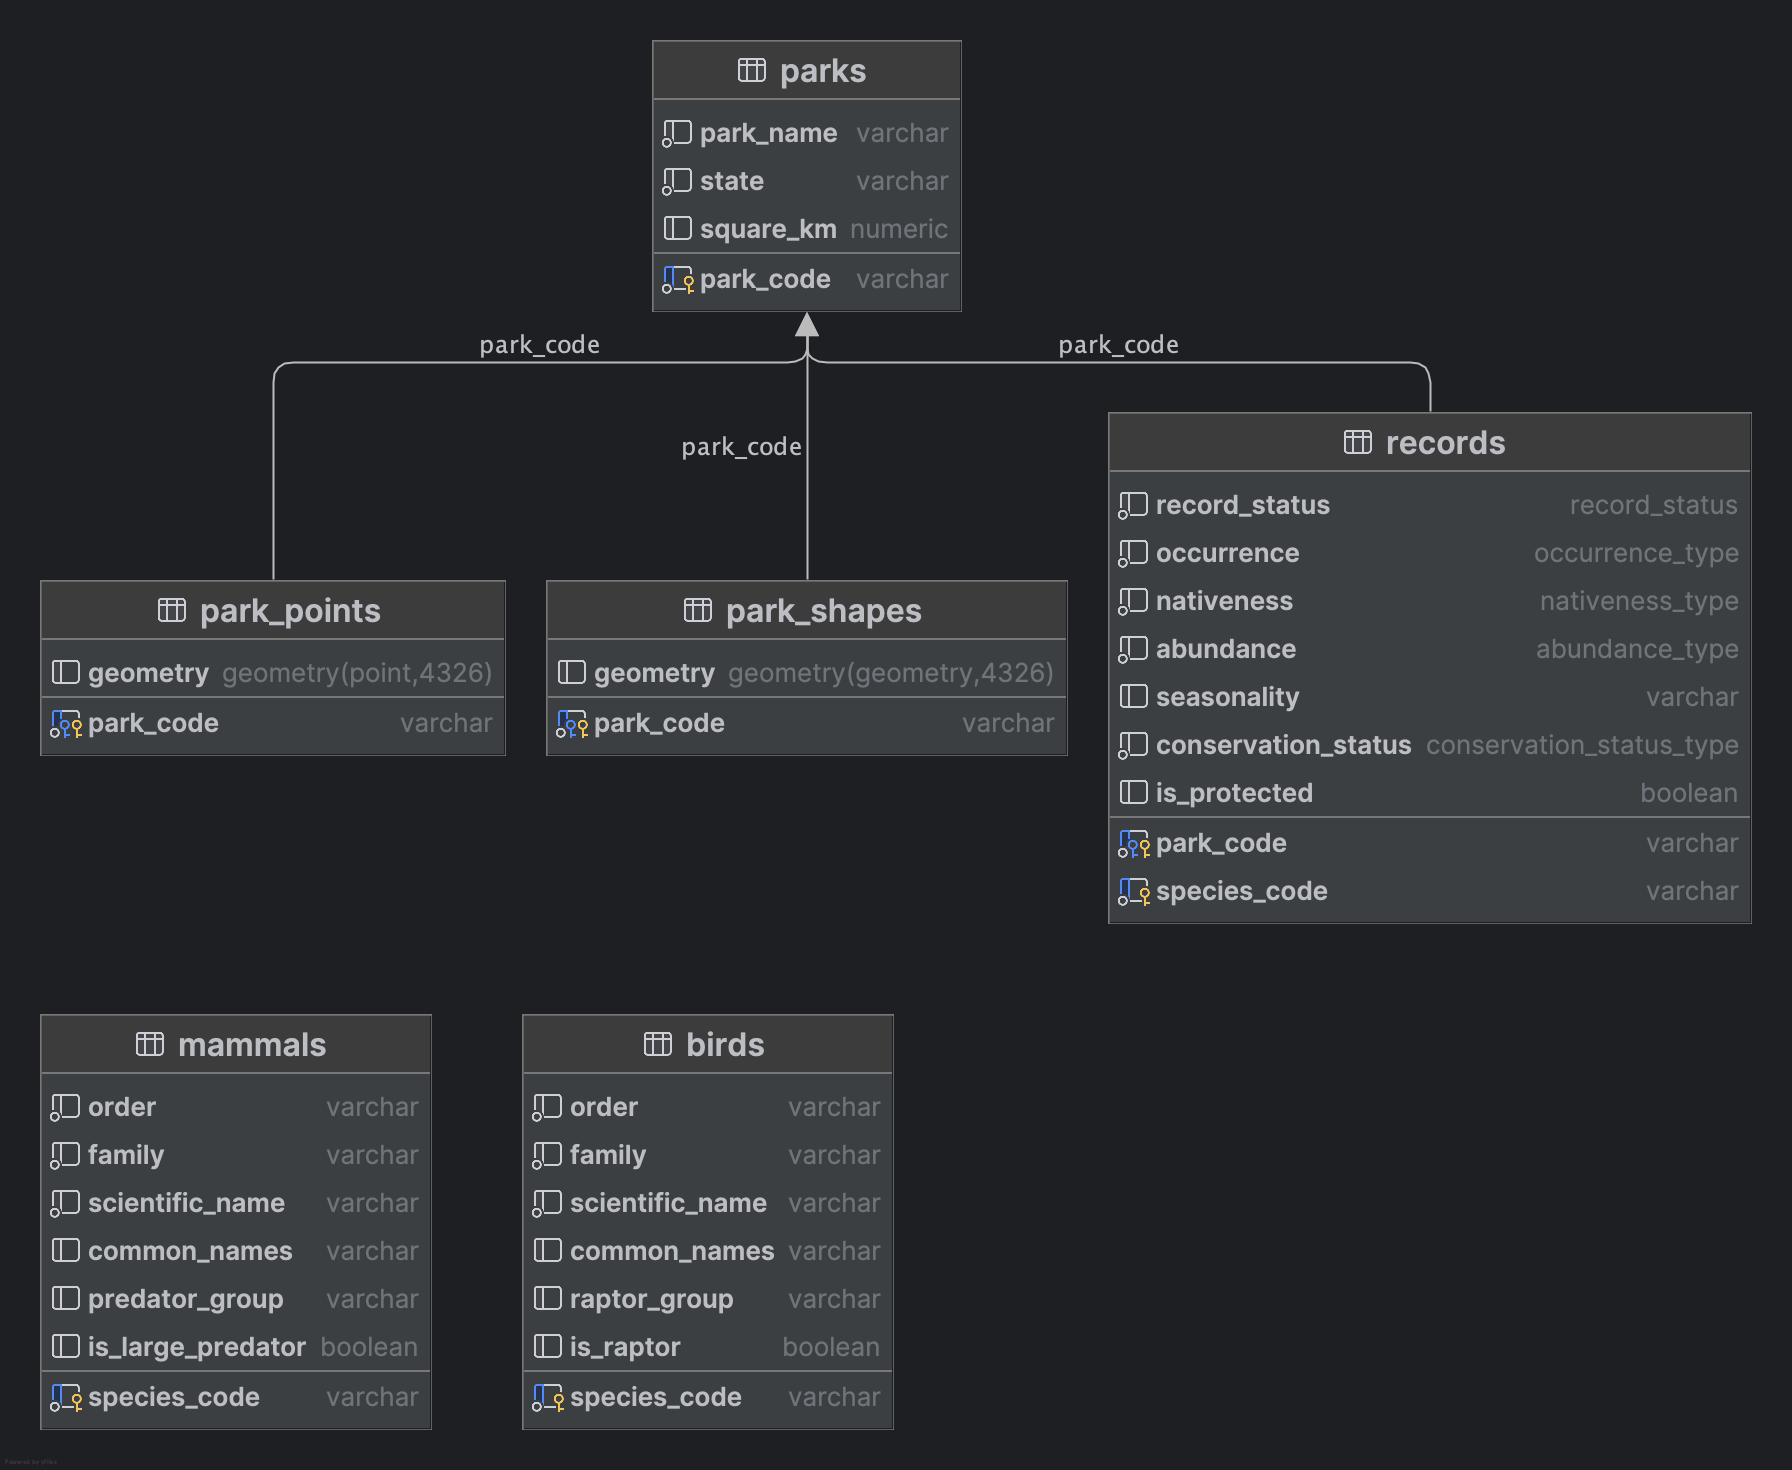
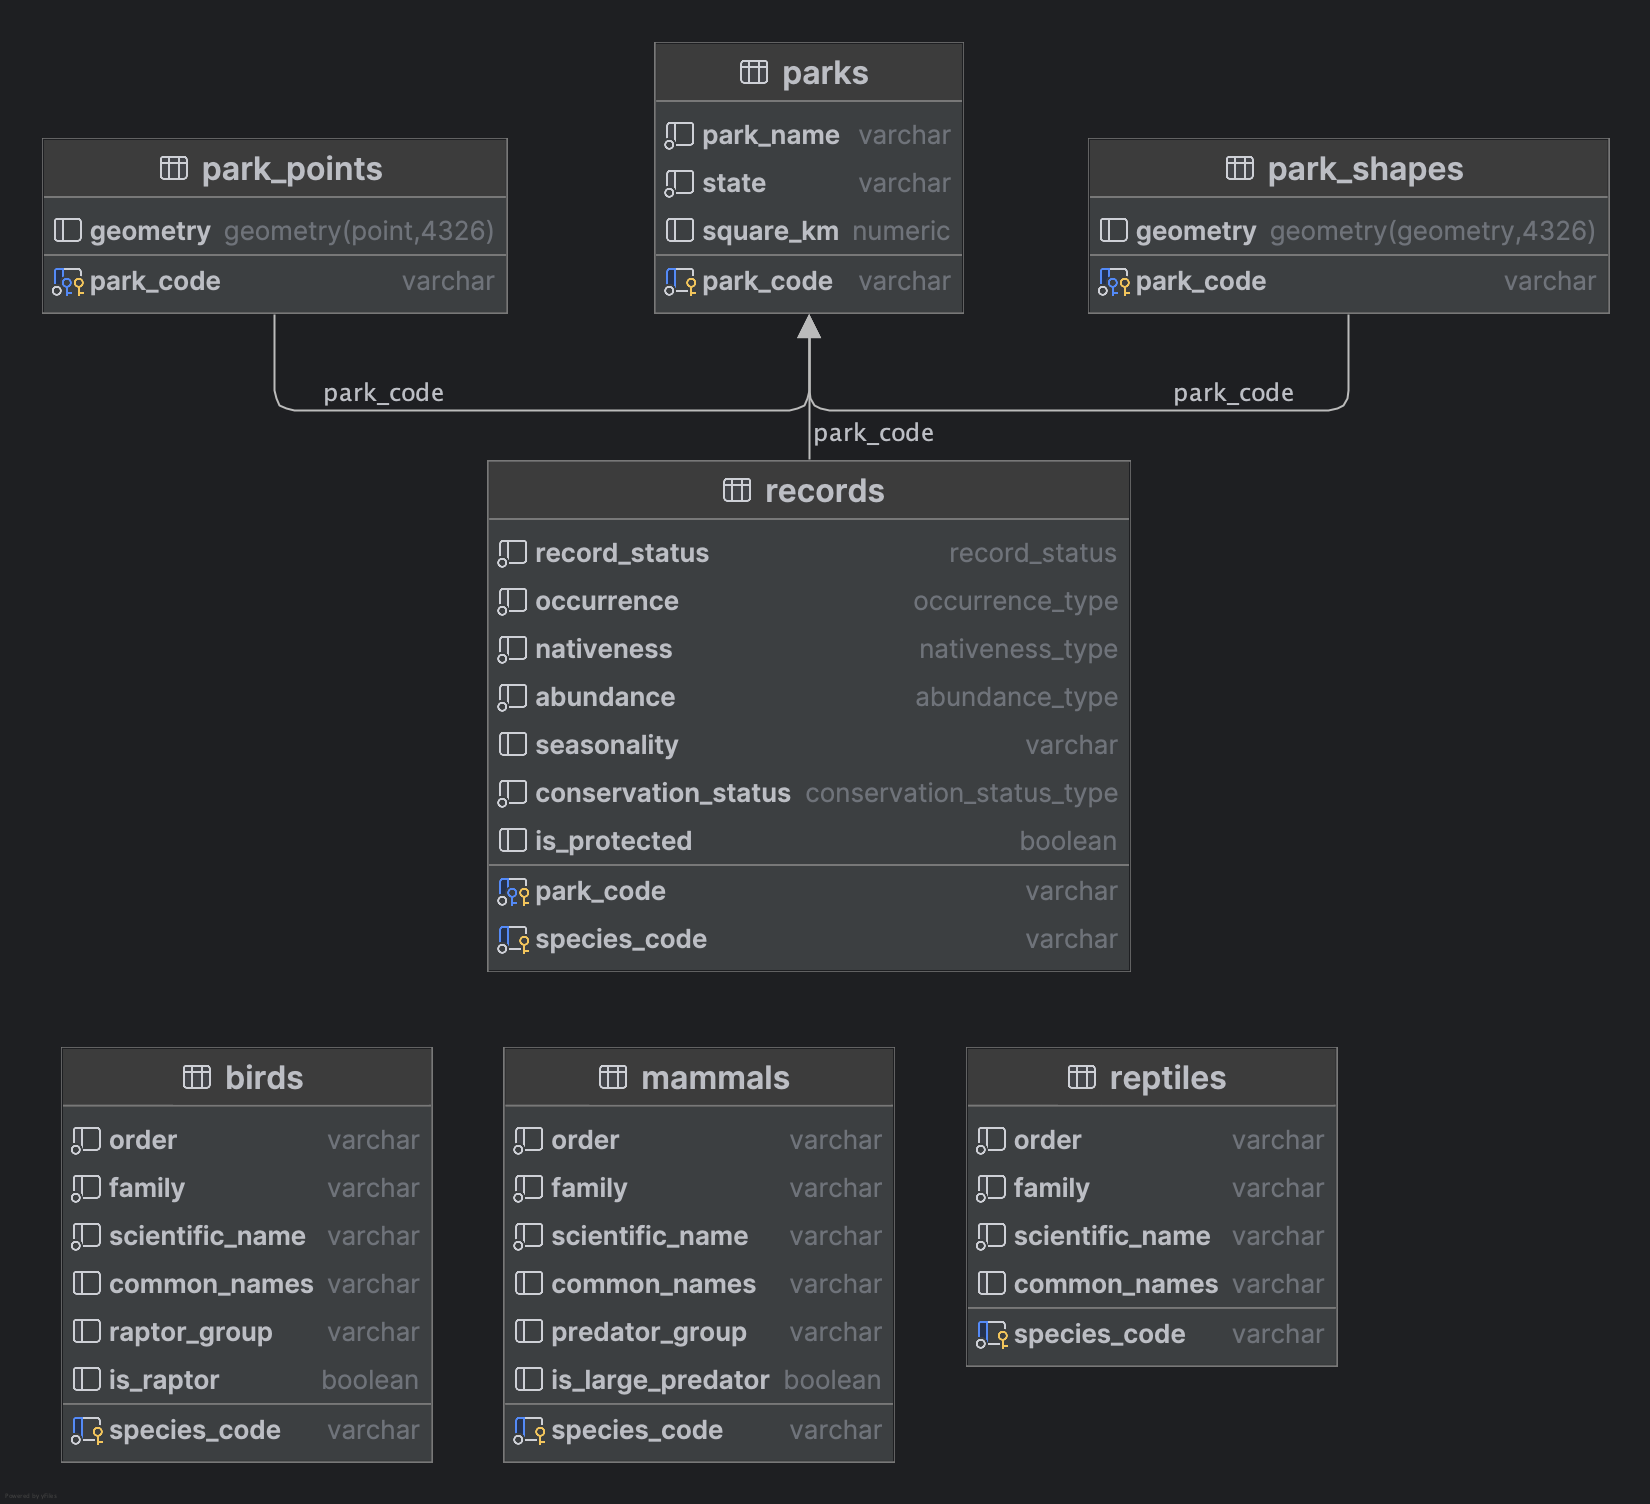
Updated for reptiles

diff --git a/data_loading.py b/data_loading.py
@@ -10,8 +10,8 @@ from ExtractTransform.utils import DataFrameUtils
 
 def main():
     # Database connection parameters
-    db_user = 'Ian'
-    db_password = 'DAVEda1108'
+    db_user = 'YOUR_USERNAME'
+    db_password = 'YOUR_PASSWORD'
     db_host = 'localhost'
     db_port = '5432'  # Usually 5432
     db_name = 'national_parks'   # Change if you created Db with another name

diff --git a/README.md b/README.md
@@ -152,8 +152,8 @@ The schema integrates geospatial data using [PostGIS](https://postgis.net), with
 
 - Each table is uniquely identified by a primary key:
   - `parks` table: `park_code`
-  - `park_points` and `park_shapes` tables: `park_code`, aligning spatial data with corresponding parks.
-  - `birds` and `mammals` tables: `species_code`, ensuring unique identification of species.
+  - `park_points` and `park_shapes` tables: `park_code`
+  - `birds` `mammals` & `reptiles` tables: `species_code`
 
 - **Composite Primary Key**:
   - The `records` table uses a composite primary key (`park_code`, `species_code`), supporting a many-to-many relationship between parks and species.
